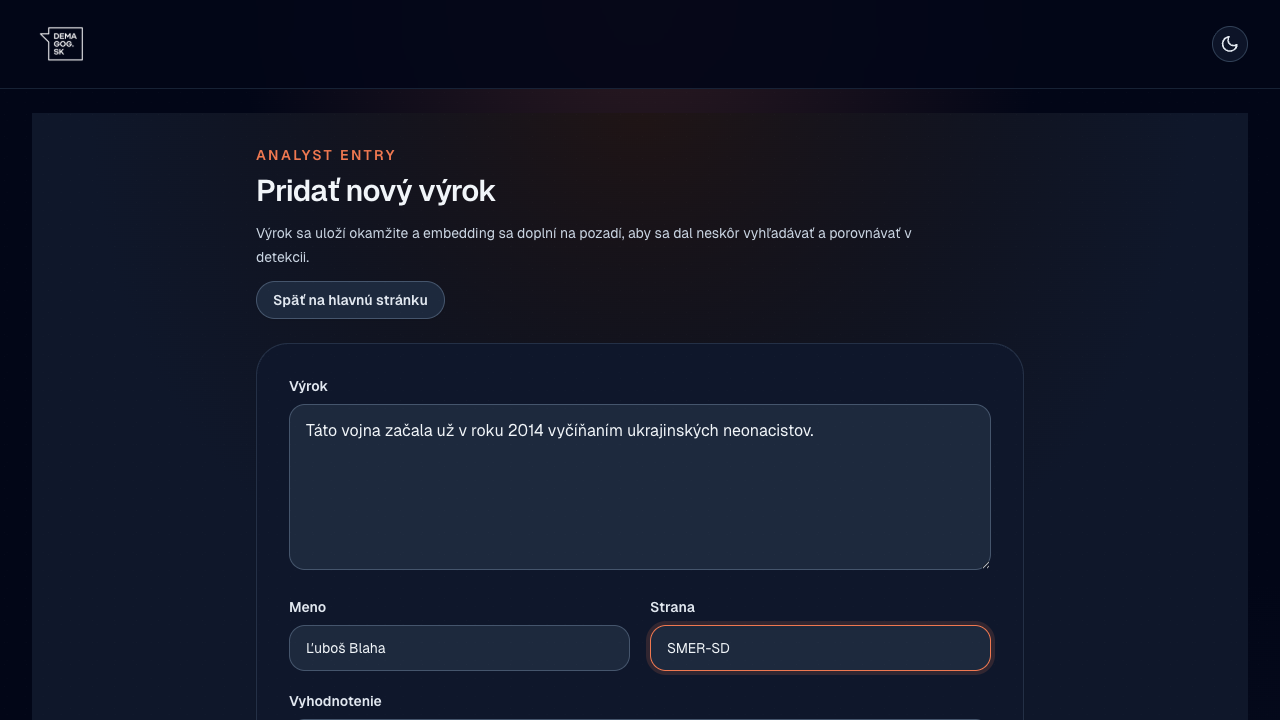
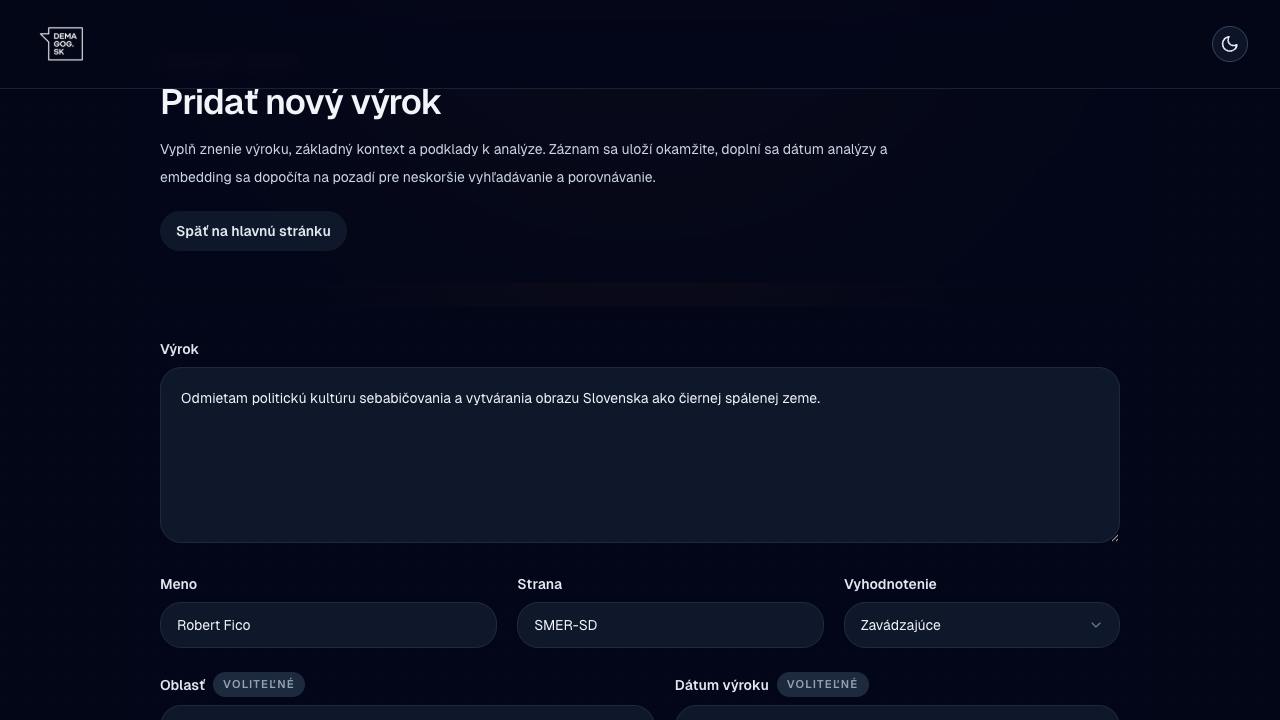
Tighten onboarding copy layout and recapture the add-step walkthrough assets
Remove the reusable reassurance bubble under onboarding step titles so the body copy starts immediately below each heading, which shortens the right-hand column and matches the cleaner layout requested for the refreshed flow.

Compact the ready-state visuals in HomeOnboarding by shrinking the summary cards and replacing the larger two-card footer block with a denser single note row, reducing the empty space in the left panel while keeping the final step readable.

Revise the post-onboarding feedback toast copy after a five-turn Gemini CLI wording pass so it sounds more natural in Slovak and no longer refers to the button as staying in the lower-left corner.

Retake the light and dark step 5 add-flow screenshots against the current UI using a real recent political quote from Robert Fico published by TASR on January 1, 2026, and fill the politician, party, verdict, area, date, and reasoning fields so the walkthrough imagery looks realistic instead of placeholder-driven.

Validation: npm test -- --run tests/components/HomeOnboarding.test.tsx; npm run typecheck; npx eslint src/components/home/HomeOnboarding.tsx src/components/home/homeOnboardingSteps.tsx tests/components/HomeOnboarding.test.tsx.

Known issues: no new onboarding-specific issues were found in this pass; unrelated worktree changes and local Playwright artifacts remain outside this commit.

diff --git a/src/components/home/HomeOnboarding.tsx b/src/components/home/HomeOnboarding.tsx
@@ -191,12 +191,12 @@ function IntroStage() {
 
 function ReadyStage() {
   return (
-    <div className="space-y-6">
+    <div className="space-y-5">
       <div className="inline-flex rounded-full border border-[#cfe4db] bg-[#edf8f3] px-4 py-1.5 text-[11px] font-semibold uppercase tracking-[0.18em] text-[#1f6b52] dark:border-[#275445] dark:bg-[#0f231d] dark:text-[#8fe0bc]">
         Pripravené na prácu
       </div>
 
-      <div className="grid gap-4 sm:grid-cols-3">
+      <div className="grid gap-3 sm:grid-cols-3">
         {[
           {
             label: "Vyhľadať",
@@ -213,42 +213,27 @@ function ReadyStage() {
         ].map((item) => (
           <article
             key={item.label}
-            className="rounded-[1.6rem] border border-slate-200 bg-white p-5 shadow-[0_24px_60px_-40px_rgba(15,23,42,0.24)] dark:border-slate-700/80 dark:bg-slate-950/85 dark:shadow-[0_28px_72px_-44px_rgba(2,6,23,0.92)]"
+            className="rounded-[1.45rem] border border-slate-200 bg-white p-4 shadow-[0_24px_60px_-40px_rgba(15,23,42,0.24)] dark:border-slate-700/80 dark:bg-slate-950/85 dark:shadow-[0_28px_72px_-44px_rgba(2,6,23,0.92)]"
           >
             <div className="inline-flex rounded-full bg-slate-100 px-3 py-1 text-[11px] font-semibold uppercase tracking-[0.14em] text-slate-600 dark:bg-slate-900 dark:text-slate-200">
               {item.label}
             </div>
-            <p className="mt-4 text-sm leading-6 text-slate-600 dark:text-slate-300">
+            <p className="mt-3 text-sm leading-6 text-slate-600 dark:text-slate-300">
               {item.text}
             </p>
           </article>
         ))}
       </div>
 
-      <div className="rounded-[1.75rem] border border-slate-200 bg-white px-6 py-5 shadow-[0_24px_60px_-40px_rgba(15,23,42,0.25)] dark:border-slate-700/80 dark:bg-slate-950/85 dark:shadow-[0_24px_72px_-44px_rgba(2,6,23,0.95)]">
-        <div className="grid gap-3 sm:grid-cols-2">
-          {[
-            {
-              title: "Návod zostáva dostupný",
-              body: "Ak si budete chcieť neskôr pripomenúť jednotlivé kroky, otvoríte ho znovu cez tlačidlo vpravo dole.",
-            },
-            {
-              title: "Máte pripomienku? zostáva dole vľavo",
-              body: "Keď budete chcieť nahlásiť chybu alebo poslať návrh, tlačidlo nájdete na tom istom mieste.",
-            },
-          ].map((item) => (
-            <div
-              key={item.title}
-              className="rounded-[1.25rem] border border-slate-200 bg-slate-50 px-4 py-4 dark:border-slate-800 dark:bg-slate-900/70"
-            >
-              <p className="text-sm font-semibold text-slate-800 dark:text-slate-100">
-                {item.title}
-              </p>
-              <p className="mt-2 text-sm leading-6 text-slate-600 dark:text-slate-300">
-                {item.body}
-              </p>
-            </div>
-          ))}
+      <div className="rounded-[1.55rem] border border-slate-200 bg-white px-5 py-4 shadow-[0_24px_60px_-40px_rgba(15,23,42,0.25)] dark:border-slate-700/80 dark:bg-slate-950/85 dark:shadow-[0_24px_72px_-44px_rgba(2,6,23,0.95)]">
+        <div className="flex flex-wrap items-center gap-3">
+          <span className="inline-flex rounded-full bg-[#edf8f3] px-3 py-1 text-[11px] font-semibold uppercase tracking-[0.14em] text-[#1f6b52] dark:bg-[#0f231d] dark:text-[#8fe0bc]">
+            Návod a spätná väzba
+          </span>
+          <p className="max-w-2xl text-sm leading-6 text-slate-600 dark:text-slate-300">
+            K návodu sa vrátite cez tlačidlo Návod. Ak narazíte na chybu alebo máte nápad,
+            napíšte nám cez {`"Máte pripomienku?"`}.
+          </p>
         </div>
       </div>
     </div>
@@ -501,10 +486,6 @@ export default function HomeOnboarding({
                 </div>
               </div>
 
-              <div className="mt-6 rounded-[1.5rem] border border-slate-200 bg-slate-50 px-4 py-3 text-sm font-medium text-slate-500 dark:border-slate-700 dark:bg-slate-900/80 dark:text-slate-200">
-                Návod je neskôr vždy dostupný cez tlačidlo Návod v pravom dolnom rohu.
-              </div>
-
               <div
                 key={`copy-${currentStep.id}`}
                 className="mt-6 animate-[onboardingFade_240ms_ease-out] space-y-3"
@@ -617,8 +598,7 @@ export default function HomeOnboarding({
                   Máte postreh z prvého používania?
                 </p>
                 <p className="mt-1 text-sm leading-6 text-slate-600 dark:text-slate-300">
-                  Tlačidlo Máte pripomienku? zostáva dole vľavo, keď budete chcieť poslať chybu
-                  alebo krátky návrh.
+                  Máte nápad alebo ste našli chybu? Napíšte nám cez {`"Máte pripomienku?"`}.
                 </p>
               </div>
 

diff --git a/src/components/home/homeOnboardingSteps.tsx b/src/components/home/homeOnboardingSteps.tsx
@@ -116,8 +116,8 @@ export const HOME_ONBOARDING_STEPS: HomeOnboardingStep[] = [
     title: "K návodu sa môžete kedykoľvek vrátiť.",
     body: [
       "Ak si budete chcieť neskôr pripomenúť jednotlivé kroky, návod si znovu otvoríte cez tlačidlo Návod v pravom dolnom rohu.",
-      "Tlačidlo Máte pripomienku? zostáva dole vľavo. Môžete nám cezň poslať chybu, nepresnosť alebo návrh, ktorý by vám uľahčil prácu.",
-      "Demagog vám má pri práci skrátiť cestu od prvého dopytu k hotovému overeniu.",
+      "Máte nápad alebo ste našli chybu? Napíšte nám cez \"Máte pripomienku?\".",
+      "Demagog vám má skrátiť cestu od prvého dopytu k hotovému overeniu.",
     ],
     media: {
       kind: "text",
